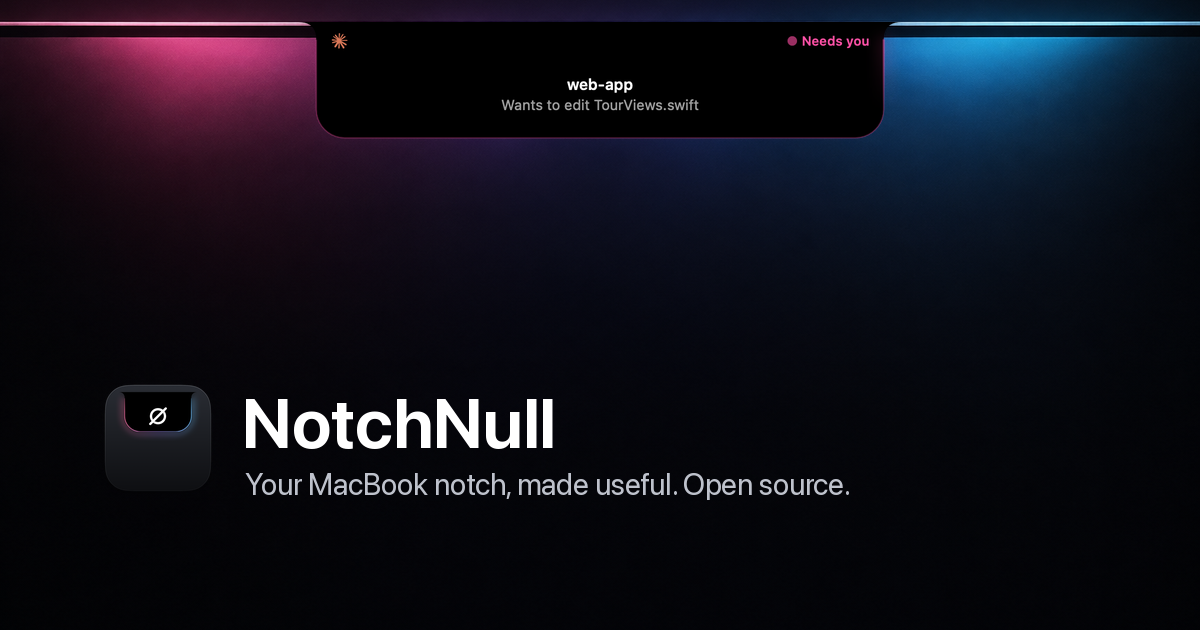
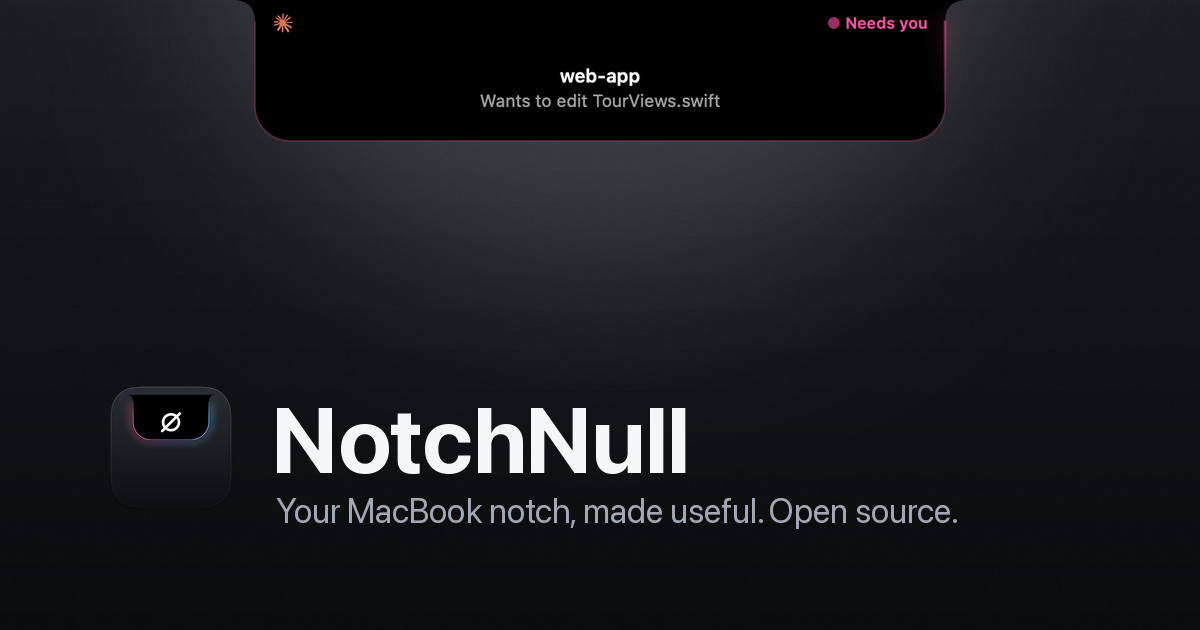
Site: monochrome graphite theme, drop the gradient accents

Changed region(s): [[0.0, 0.0, 1.0, 0.5127], [0.0925, 0.6032, 0.8017, 0.8444], [0.4008, 0.0905, 0.6167, 0.181]]

diff --git a/site/components/Nav.tsx b/site/components/Nav.tsx
@@ -67,7 +67,7 @@ export function Nav() {
         <a
           href="#top"
           onClick={() => setOpen(false)}
-          className="flex items-center gap-2.5 rounded-lg text-[15px] font-semibold tracking-tight focus-visible:outline-2 focus-visible:outline-offset-4 focus-visible:outline-violet"
+          className="flex items-center gap-2.5 rounded-lg text-[15px] font-semibold tracking-tight focus-visible:outline-2 focus-visible:outline-offset-4 focus-visible:outline-white/70"
         >
           <BrandMark size={28} />
           NotchNull
@@ -81,7 +81,7 @@ export function Nav() {
                 <a
                   href={link.href}
                   aria-current={current ? "location" : undefined}
-                  className={`rounded-full px-3 py-1.5 transition-colors duration-200 focus-visible:outline-2 focus-visible:outline-violet ${
+                  className={`rounded-full px-3 py-1.5 transition-colors duration-200 focus-visible:outline-2 focus-visible:outline-white/70 ${
                     current ? "bg-white/10 text-foreground" : "text-muted hover:text-foreground"
                   }`}
                 >
@@ -96,14 +96,14 @@ export function Nav() {
           <a
             href={links.repo}
             aria-label="NotchNull source code on GitHub"
-            className="hidden items-center gap-1.5 rounded-full px-3 py-1.5 text-[13.5px] text-muted transition-colors hover:text-foreground focus-visible:outline-2 focus-visible:outline-violet sm:flex"
+            className="hidden items-center gap-1.5 rounded-full px-3 py-1.5 text-[13.5px] text-muted transition-colors hover:text-foreground focus-visible:outline-2 focus-visible:outline-white/70 sm:flex"
           >
             <CodeXml className="size-4" aria-hidden="true" />
             Source
           </a>
           <a
             href={links.download}
-            className="flex h-9 items-center gap-1.5 rounded-full bg-foreground px-4 text-[13px] font-semibold text-background transition-transform active:scale-[0.97] focus-visible:outline-2 focus-visible:outline-offset-2 focus-visible:outline-violet"
+            className="flex h-9 items-center gap-1.5 rounded-full bg-foreground px-4 text-[13px] font-semibold text-background transition-transform active:scale-[0.97] focus-visible:outline-2 focus-visible:outline-offset-2 focus-visible:outline-white/70"
           >
             <Download className="size-3.5" aria-hidden="true" />
             Download
@@ -114,7 +114,7 @@ export function Nav() {
             aria-expanded={open}
             aria-controls="mobile-nav"
             aria-label={open ? "Close menu" : "Open menu"}
-            className="flex size-9 items-center justify-center rounded-full text-muted transition-colors hover:bg-white/8 hover:text-foreground focus-visible:outline-2 focus-visible:outline-violet md:hidden"
+            className="flex size-9 items-center justify-center rounded-full text-muted transition-colors hover:bg-white/8 hover:text-foreground focus-visible:outline-2 focus-visible:outline-white/70 md:hidden"
           >
             {open ? <X className="size-5" aria-hidden="true" /> : <Menu className="size-5" aria-hidden="true" />}
           </button>

diff --git a/site/components/Hero.tsx b/site/components/Hero.tsx
@@ -7,12 +7,12 @@ export function Hero() {
     <section id="top" className="relative overflow-hidden pt-30 sm:pt-38">
       <div
         aria-hidden="true"
-        className="pointer-events-none absolute inset-x-0 top-0 -z-10 h-[520px] bg-[radial-gradient(60%_60%_at_50%_0%,rgb(167_139_250/0.18),transparent)]"
+        className="pointer-events-none absolute inset-x-0 top-0 -z-10 h-[520px] bg-[radial-gradient(60%_60%_at_50%_0%,rgb(255_255_255/0.07),transparent)]"
       />
       <div className="mx-auto max-w-3xl px-4 text-center sm:px-6">
         <p className="text-[13px] font-medium tracking-wide text-muted">{hero.eyebrow}</p>
         <h1 className="mt-4 text-balance text-[44px] font-semibold leading-[1.02] tracking-[-0.035em] sm:text-[72px]">
-          Your notch, <span className="brand-text">made useful.</span>
+          Your notch, <span className="text-white/45">made useful.</span>
         </h1>
         <p className="mx-auto mt-5 max-w-xl text-pretty text-[17px] leading-relaxed text-muted sm:text-[19px]">
           {hero.subtitle}
@@ -20,14 +20,14 @@ export function Hero() {
         <div className="mt-8 flex flex-col items-center justify-center gap-3 sm:flex-row">
           <a
             href={links.download}
-            className="flex h-12 items-center gap-2 rounded-full bg-foreground px-6 text-[15px] font-semibold text-background shadow-[0_8px_30px_-6px_rgb(255_255_255/0.35)] transition-transform active:scale-[0.97] focus-visible:outline-2 focus-visible:outline-offset-2 focus-visible:outline-violet"
+            className="flex h-12 items-center gap-2 rounded-full bg-foreground px-6 text-[15px] font-semibold text-background shadow-[0_8px_30px_-6px_rgb(255_255_255/0.35)] transition-transform active:scale-[0.97] focus-visible:outline-2 focus-visible:outline-offset-2 focus-visible:outline-white/70"
           >
             <Download className="size-4" aria-hidden="true" />
             Download for macOS
           </a>
           <a
             href={links.repo}
-            className="flex h-12 items-center gap-2 rounded-full border border-white/12 px-6 text-[15px] font-medium text-foreground transition-colors hover:bg-white/5 focus-visible:outline-2 focus-visible:outline-offset-2 focus-visible:outline-violet"
+            className="flex h-12 items-center gap-2 rounded-full border border-white/12 px-6 text-[15px] font-medium text-foreground transition-colors hover:bg-white/5 focus-visible:outline-2 focus-visible:outline-offset-2 focus-visible:outline-white/70"
           >
             <Star className="size-4" aria-hidden="true" />
             Star on GitHub

diff --git a/site/components/Footer.tsx b/site/components/Footer.tsx
@@ -7,7 +7,7 @@ function FooterLink({ label, href }: { label: string; href: string }) {
   return (
     <a
       href={href}
-      className="group inline-flex items-center gap-1 text-[14px] text-muted transition-colors hover:text-foreground focus-visible:outline-2 focus-visible:outline-violet"
+      className="group inline-flex items-center gap-1 text-[14px] text-muted transition-colors hover:text-foreground focus-visible:outline-2 focus-visible:outline-white/70"
     >
       {label}
       {external && (
@@ -35,7 +35,7 @@ export function Footer() {
         <div className="col-span-2 flex flex-col items-start gap-4 md:col-span-1">
           <a
             href="#top"
-            className="flex items-center gap-2.5 rounded-lg text-[17px] font-semibold tracking-tight focus-visible:outline-2 focus-visible:outline-violet"
+            className="flex items-center gap-2.5 rounded-lg text-[17px] font-semibold tracking-tight focus-visible:outline-2 focus-visible:outline-white/70"
           >
             <BrandMark size={34} />
             NotchNull
@@ -44,14 +44,14 @@ export function Footer() {
           <div className="mt-1 flex items-center gap-2">
             <a
               href={links.download}
-              className="flex h-9 items-center gap-1.5 rounded-full bg-foreground px-4 text-[13px] font-semibold text-background transition-transform active:scale-[0.97] focus-visible:outline-2 focus-visible:outline-offset-2 focus-visible:outline-violet"
+              className="flex h-9 items-center gap-1.5 rounded-full bg-foreground px-4 text-[13px] font-semibold text-background transition-transform active:scale-[0.97] focus-visible:outline-2 focus-visible:outline-offset-2 focus-visible:outline-white/70"
             >
               <Download className="size-3.5" aria-hidden="true" />
               Download
             </a>
             <a
               href={links.repo}
-              className="flex h-9 items-center gap-1.5 rounded-full border border-hairline px-4 text-[13px] font-medium text-muted transition-colors hover:border-white/20 hover:text-foreground focus-visible:outline-2 focus-visible:outline-violet"
+              className="flex h-9 items-center gap-1.5 rounded-full border border-hairline px-4 text-[13px] font-medium text-muted transition-colors hover:border-white/20 hover:text-foreground focus-visible:outline-2 focus-visible:outline-white/70"
             >
               <CodeXml className="size-3.5" aria-hidden="true" />
               Source

diff --git a/site/components/NullMark.tsx b/site/components/NullMark.tsx
@@ -10,30 +10,18 @@ export function NullMark({ size = 20, className }: NullMarkProps) {
   );
 }
 
-const BRAND_GRADIENT_ID = "notchnull-brand-gradient";
-
 /**
  * The mark drawn in vector for small sizes, where the raster app icon turns into a dark blur:
- * the null glyph in the brand gradient on a black tile.
+ * the white null glyph on a black tile, like the notch itself.
  */
 export function BrandMark({ size = 28 }: { size?: number }) {
   return (
     <span
       aria-hidden="true"
       style={{ width: size, height: size, borderRadius: size * 0.3 }}
-      className="flex shrink-0 items-center justify-center border border-white/12 bg-black shadow-[inset_0_1px_0_rgb(255_255_255/0.08)]"
+      className="flex shrink-0 items-center justify-center border border-white/12 bg-black text-white shadow-[inset_0_1px_0_rgb(255_255_255/0.08)]"
     >
-      <svg width={size * 0.6} height={size * 0.6} viewBox="0 0 24 24" fill="none">
-        <defs>
-          <linearGradient id={BRAND_GRADIENT_ID} x1="3" y1="21" x2="21" y2="3" gradientUnits="userSpaceOnUse">
-            <stop stopColor="var(--pink)" />
-            <stop offset="0.55" stopColor="var(--violet)" />
-            <stop offset="1" stopColor="var(--cyan)" />
-          </linearGradient>
-        </defs>
-        <circle cx="12" cy="12" r="6.7" stroke={`url(#${BRAND_GRADIENT_ID})`} strokeWidth="2.6" />
-        <path d="M4.4 19.6 19.6 4.4" stroke={`url(#${BRAND_GRADIENT_ID})`} strokeWidth="2.6" strokeLinecap="round" />
-      </svg>
+      <NullMark size={size * 0.56} />
     </span>
   );
 }

diff --git a/site/app/globals.css b/site/app/globals.css
@@ -8,9 +8,6 @@
   --foreground: #f5f6f8;
   --muted: #a3a8b5;
   --subtle: #6b7180;
-  --pink: #ff5e8a;
-  --violet: #a78bfa;
-  --cyan: #5ac8fa;
   --claude: #d97757;
   --needs-you: #ff4fa3;
   --success: #30d158;
@@ -24,9 +21,6 @@
   --color-foreground: var(--foreground);
   --color-muted: var(--muted);
   --color-subtle: var(--subtle);
-  --color-pink: var(--pink);
-  --color-violet: var(--violet);
-  --color-cyan: var(--cyan);
   --color-claude: var(--claude);
   --color-needs-you: var(--needs-you);
   --color-success: var(--success);
@@ -42,17 +36,6 @@ html {
 body {
   background: var(--background);
   color: var(--foreground);
-}
-
-.brand-gradient {
-  background-image: linear-gradient(90deg, var(--pink), var(--violet), var(--cyan));
-}
-
-.brand-text {
-  background-image: linear-gradient(90deg, var(--pink), var(--violet) 55%, var(--cyan));
-  -webkit-background-clip: text;
-  background-clip: text;
-  color: transparent;
 }
 
 /* The app's signature transition: content condenses out of a blur. */

diff --git a/site/components/InstallSection.tsx b/site/components/InstallSection.tsx
@@ -28,7 +28,7 @@ export function InstallSection() {
         <div className="mt-12 flex flex-col items-center gap-3">
           <a
             href={links.download}
-            className="flex h-12 items-center gap-2 rounded-full bg-foreground px-6 text-[15px] font-semibold text-background transition-transform active:scale-[0.97] focus-visible:outline-2 focus-visible:outline-offset-2 focus-visible:outline-violet"
+            className="flex h-12 items-center gap-2 rounded-full bg-foreground px-6 text-[15px] font-semibold text-background transition-transform active:scale-[0.97] focus-visible:outline-2 focus-visible:outline-offset-2 focus-visible:outline-white/70"
           >
             <Download className="size-4" aria-hidden="true" />
             Download NotchNull

diff --git a/site/components/Screen.tsx b/site/components/Screen.tsx
@@ -9,7 +9,7 @@ type ScreenProps = { children: ReactNode; className?: string; height?: string };
 export function Screen({ children, className = "", height = "h-[300px] sm:h-[360px]" }: ScreenProps) {
   return (
     <div
-      className={`relative w-full overflow-hidden rounded-t-[22px] border border-b-0 border-white/10 bg-black p-[6px] pb-0 shadow-[0_40px_120px_-20px_rgb(167_139_250/0.25)] ${className}`}
+      className={`relative w-full overflow-hidden rounded-t-[22px] border border-b-0 border-white/10 bg-black p-[6px] pb-0 shadow-[0_40px_120px_-30px_rgb(0_0_0/0.9)] ${className}`}
     >
       <div
         className={`relative overflow-hidden rounded-t-[16px] bg-[url(/brand/wallpaper.jpg)] bg-cover bg-[center_top] ${height}`}

diff --git a/site/components/PanelTabs.tsx b/site/components/PanelTabs.tsx
@@ -30,7 +30,7 @@ export function PanelTabs() {
                   role="tab"
                   aria-selected={selected}
                   onClick={() => setActive(item.id)}
-                  className={`rounded-full px-3.5 py-1.5 text-[13px] font-medium transition-colors duration-200 focus-visible:outline-2 focus-visible:outline-offset-2 focus-visible:outline-violet sm:px-4 ${
+                  className={`rounded-full px-3.5 py-1.5 text-[13px] font-medium transition-colors duration-200 focus-visible:outline-2 focus-visible:outline-offset-2 focus-visible:outline-white/70 sm:px-4 ${
                     selected ? "bg-white/12 text-foreground" : "text-subtle hover:text-muted"
                   }`}
                 >

diff --git a/site/components/CopyCommand.tsx b/site/components/CopyCommand.tsx
@@ -24,7 +24,7 @@ export function CopyCommand({ command }: { command: string }) {
         type="button"
         onClick={copy}
         aria-label={copied ? "Copied" : "Copy command"}
-        className="grid size-9 shrink-0 place-items-center rounded-lg text-muted transition-colors hover:bg-white/8 hover:text-foreground focus-visible:outline-2 focus-visible:outline-violet"
+        className="grid size-9 shrink-0 place-items-center rounded-lg text-muted transition-colors hover:bg-white/8 hover:text-foreground focus-visible:outline-2 focus-visible:outline-white/70"
       >
         {copied ? <Check className="size-4 text-success" aria-hidden="true" /> : <Copy className="size-4" aria-hidden="true" />}
       </button>

diff --git a/site/components/NotchStage.tsx b/site/components/NotchStage.tsx
@@ -90,7 +90,7 @@ function StageControls({ index, onSelect }: { index: number; onSelect: (index: n
             role="tab"
             aria-selected={active}
             onClick={() => onSelect(i)}
-            className={`rounded-full px-3 py-1 text-[12px] font-medium transition-colors duration-200 focus-visible:outline-2 focus-visible:outline-offset-2 focus-visible:outline-violet ${
+            className={`rounded-full px-3 py-1 text-[12px] font-medium transition-colors duration-200 focus-visible:outline-2 focus-visible:outline-offset-2 focus-visible:outline-white/70 ${
               active ? "bg-white/12 text-foreground" : "text-subtle hover:bg-white/6 hover:text-muted"
             }`}
           >

diff --git a/site/components/SectionHeading.tsx b/site/components/SectionHeading.tsx
@@ -3,7 +3,7 @@ type SectionHeadingProps = { eyebrow: string; title: string; body?: string };
 export function SectionHeading({ eyebrow, title, body }: SectionHeadingProps) {
   return (
     <div className="mx-auto max-w-2xl text-center">
-      <p className="text-[13px] font-semibold uppercase tracking-[0.14em] text-violet">{eyebrow}</p>
+      <p className="text-[13px] font-semibold uppercase tracking-[0.14em] text-muted">{eyebrow}</p>
       <h2 className="mt-3 text-balance text-[32px] font-semibold leading-[1.08] tracking-[-0.03em] sm:text-[44px]">{title}</h2>
       {body && <p className="mt-4 text-pretty text-[17px] leading-relaxed text-muted">{body}</p>}
     </div>

diff --git a/site/components/FeatureGrid.tsx b/site/components/FeatureGrid.tsx
@@ -31,7 +31,7 @@ export function FeatureGrid() {
               )}
               <div className="p-5">
                 <div className="flex items-center gap-2.5">
-                  <Icon name={feature.icon} className="size-[18px] text-violet" />
+                  <Icon name={feature.icon} className="size-[18px] text-foreground/80" />
                   <h3 className="text-[16px] font-semibold tracking-tight">{feature.title}</h3>
                 </div>
                 <p className="mt-2 text-[15px] leading-relaxed text-muted">{feature.body}</p>
